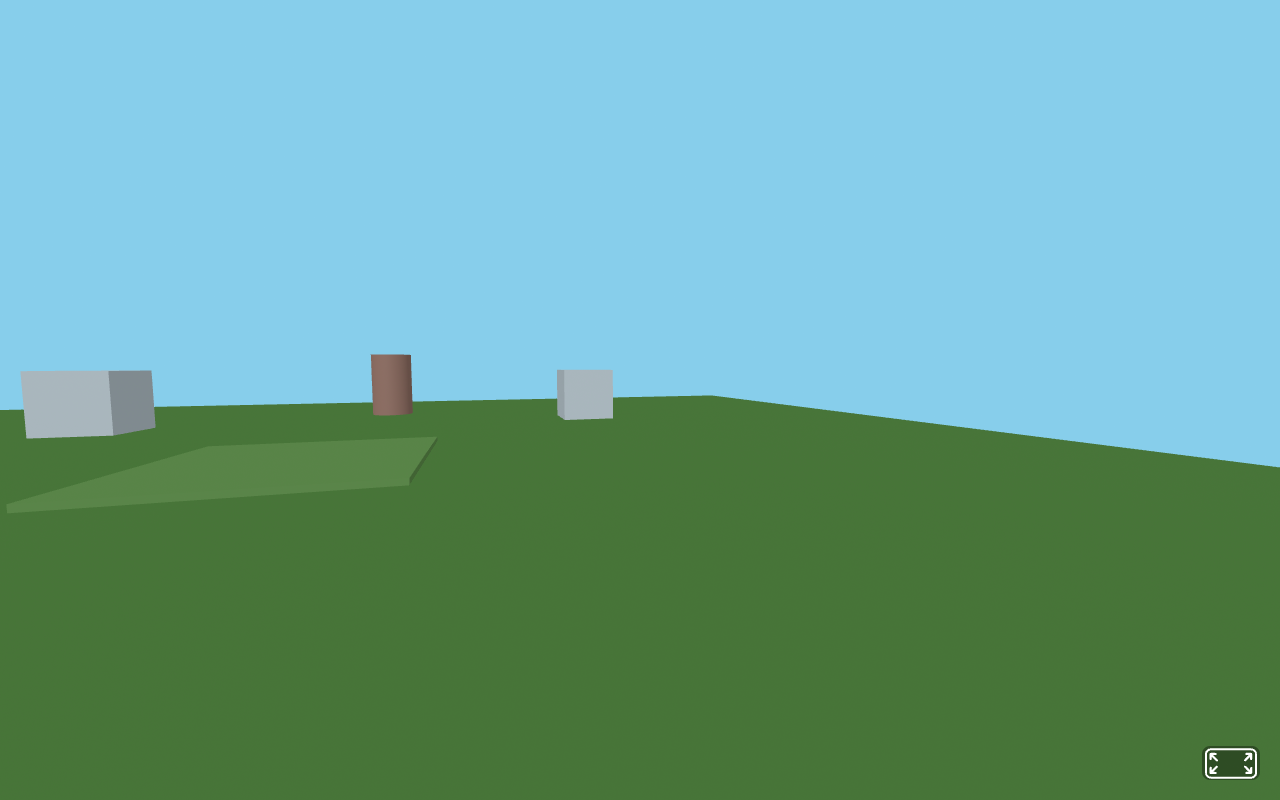
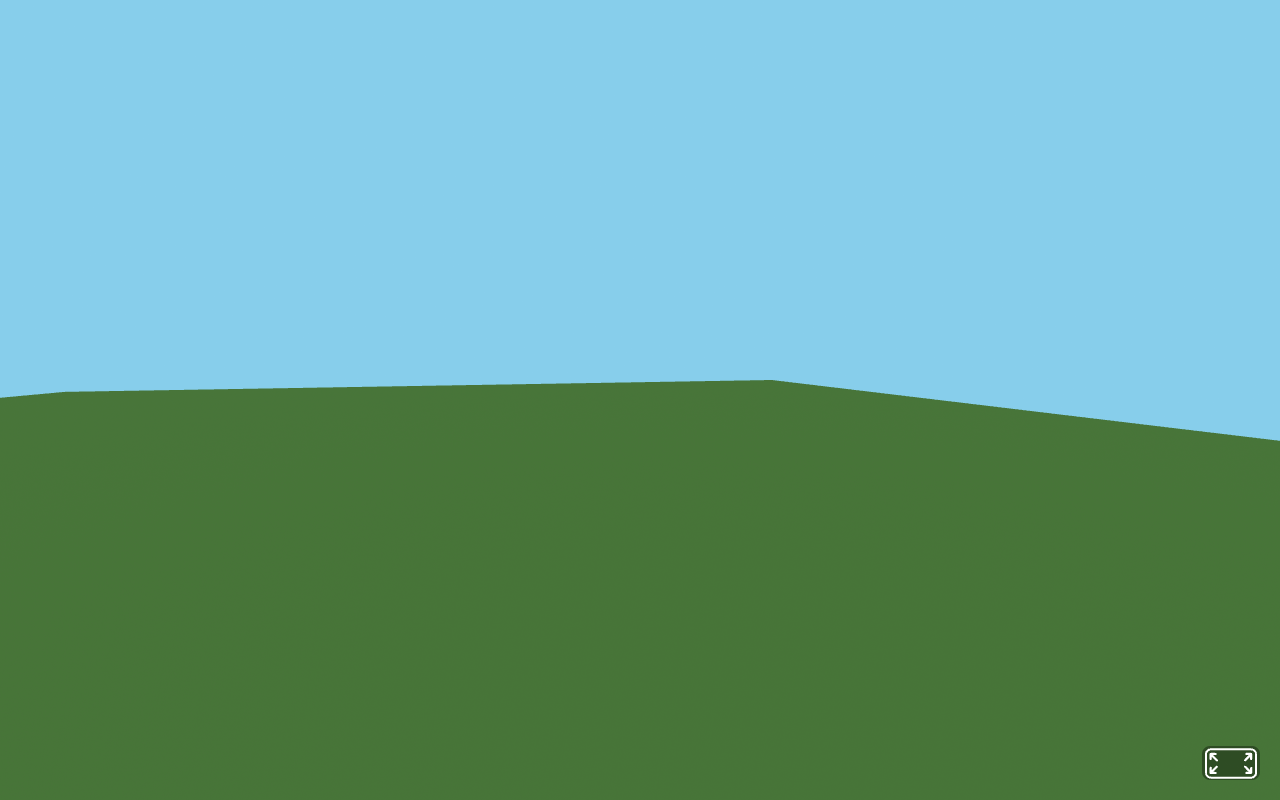
docs(md2): 第4回のマルチプレイを簡素化（アバター=スフィア1つ・床と空だけ・rotation削除）
- アバターを四角柱+スフィア → スフィア1つに
- 空間の目印(箱/円柱)を撤去し、床と空だけに
- 位置のみ送受信（rotation/向きを全面削除）でコードを簡素化
- 実機で撮り直したスフィア版キャプチャ(単一/2視点/俯瞰)に差し替え
- 発展のglTF/VRM例も簡素createAvatarに整合

Changed region(s): [[0.0, 0.4375, 1.0, 0.5938]]

diff --git a/docs/md2_week_4.html b/docs/md2_week_4.html
@@ -496,7 +496,7 @@ body { padding-top: 2.2rem; }
     <h1>MD2 第4回: マルチプレイ空間をつくる ― Node.js + Socket.IO で、みんなで動けるバーチャル空間へ</h1>
     <div style="display:flex;gap:1.5rem;align-items:center;flex-wrap:wrap;margin-top:0.3rem">
       <p style="overflow-wrap:normal;word-break:normal;flex:1 1 20rem;min-width:16rem;max-width:640px;margin:0">第3回は「与えられたデータ（サッカーCSV）」を空間で可視化した。第4回は逆に、<strong>自分たちが同じ空間に入って動き、その行動データが生まれる"装置"</strong>を作る。カギは<strong>サーバ（Node.js）</strong>と<strong>Socket.IO</strong>。ブラウザ同士をつなぎ、<strong>お互いのアバターが動いて見える</strong>マルチプレイ空間を、手を動かして完成させる。<span style="opacity:0.75">（集めたデータの"分析"は次回のテーマ。今日はまず「みんなで動ける」を実現する。）</span></p>
-      <img src="img/md2w4_hero.png" alt="Node.jsとSocket.IOで作ったマルチプレイ空間。青と橙、2人分のアバター（四角柱＋スフィア）が同じ3D空間に立っている" style="flex:0 1 460px;width:460px;max-width:100%;border-radius:12px;border:1px solid rgba(255,255,255,0.18);box-shadow:0 8px 28px rgba(0,0,0,0.45)">
+      <img src="img/md2w4_hero.png" alt="Node.jsとSocket.IOで作ったマルチプレイ空間。青と橙、2人分のアバター（色つきのスフィア）が床と空だけの空間に浮かんでいる" style="flex:0 1 460px;width:460px;max-width:100%;border-radius:12px;border:1px solid rgba(255,255,255,0.18);box-shadow:0 8px 28px rgba(0,0,0,0.45)">
     </div>
     <div style="background:rgba(255,255,255,0.08);border:1px solid rgba(255,255,255,0.2);border-radius:0.3rem;padding:0.4rem 0.8rem;margin-top:1rem;font-size:0.7rem;display:inline-block;max-width:100%;overflow-wrap:anywhere">
       <strong>第4回のメイン:</strong> ① なぜサーバが要る → ② セットアップ（Node.js/npm） → ③ 接続＋自分の空間 → ④ 同期の仕組み → ⑤ 自分の位置を送る → ⑥ 相手のアバターを同期して完成 → ⑦ 発展（名前・色・3Dモデル）
@@ -516,7 +516,7 @@ body { padding-top: 2.2rem; }
         <h4>今日の合言葉：「データを"生む装置"を作る」</h4>
         <ul class="point-list" style="margin-bottom:0">
           <li><strong>第3回</strong>＝すでにある表（サッカーCSV）を<strong>読み込んで可視化</strong>した ＝ <em>データを消費する</em></li>
-          <li><strong>第4回</strong>＝みんなが同じ空間で動くと、その<strong>位置・向きが刻々と生まれる</strong> ＝ <em>データを生産する装置を作る</em></li>
+          <li><strong>第4回</strong>＝みんなが同じ空間で動くと、その<strong>位置が刻々と生まれる</strong> ＝ <em>データを生産する装置を作る</em></li>
           <li>1人分の<strong>位置 <code>{x, y, z}</code> と向き</strong>＝ある瞬間の行動データ1件（第2回のオブジェクト＝レコードと同じ形）</li>
           <li>それを<strong>毎秒何回も送り合う</strong>＝行動の時系列データが空間の中で流れている、ということ</li>
         </ul>
@@ -566,7 +566,7 @@ body { padding-top: 2.2rem; }
         <tr><td>2</td><td>セットアップ（Node.js / npm init / npm install）</td><td>説明・手順</td></tr>
         <tr><td>3</td><td>接続確認＋自分だけの空間を歩く</td><td><span class="tag tag-standard" style="font-size:0.65rem">標準課題</span> std4-1</td></tr>
         <tr><td>4</td><td>マルチプレイの仕組み（送る→転送→受け取る）</td><td>説明</td></tr>
-        <tr><td>5</td><td>自分の位置・向きを送る（<code>emit</code>）</td><td><span class="tag tag-standard" style="font-size:0.65rem">標準課題</span> std4-2</td></tr>
+        <tr><td>5</td><td>自分の位置を送る（<code>emit</code>）</td><td><span class="tag tag-standard" style="font-size:0.65rem">標準課題</span> std4-2</td></tr>
         <tr><td>6</td><td>相手のアバターを同期して完成（<strong>標準ゴール</strong>）</td><td><span class="tag tag-standard" style="font-size:0.65rem">標準課題</span> std4-3</td></tr>
         <tr><td>7</td><td>名前ラベル・個別カラー・3Dモデル（自由創作）</td><td><span class="tag tag-advanced" style="font-size:0.65rem">発展課題</span> adv4-1</td></tr>
       </table>
@@ -862,13 +862,9 @@ io.<span class="fn">on</span>(<span class="str">'connection'</span>, (socket) <s
 <span class="kw">&lt;/head&gt;</span>
 <span class="kw">&lt;body&gt;</span>
   <span class="kw">&lt;a-scene</span> id=<span class="str">"scene"</span><span class="kw">&gt;</span>
+    <span class="cmt">&lt;!-- 空間は床と空だけ --&gt;</span>
     <span class="kw">&lt;a-plane</span> rotation=<span class="str">"-90 0 0"</span> width=<span class="str">"30"</span> height=<span class="str">"30"</span> color=<span class="str">"#4a7a3a"</span><span class="kw">&gt;&lt;/a-plane&gt;</span>
     <span class="kw">&lt;a-sky</span> color=<span class="str">"#87CEEB"</span><span class="kw">&gt;&lt;/a-sky&gt;</span>
-
-    <span class="cmt">&lt;!-- 空間の目印（好きに置いてよい） --&gt;</span>
-    <span class="kw">&lt;a-box</span> position=<span class="str">"-6 0.75 -6"</span> width=<span class="str">"1.5"</span> height=<span class="str">"1.5"</span> depth=<span class="str">"1.5"</span> color=<span class="str">"#B0BEC5"</span><span class="kw">&gt;&lt;/a-box&gt;</span>
-    <span class="kw">&lt;a-box</span> position=<span class="str">"6 0.75 -6"</span> width=<span class="str">"1.5"</span> height=<span class="str">"1.5"</span> depth=<span class="str">"1.5"</span> color=<span class="str">"#B0BEC5"</span><span class="kw">&gt;&lt;/a-box&gt;</span>
-    <span class="kw">&lt;a-cylinder</span> position=<span class="str">"0 1 -9"</span> radius=<span class="str">"0.6"</span> height=<span class="str">"2"</span> color=<span class="str">"#8D6E63"</span><span class="kw">&gt;&lt;/a-cylinder&gt;</span>
 
     <span class="cmt">&lt;!-- 自分＝カメラ。WASDキーと矢印で動ける --&gt;</span>
     <span class="kw">&lt;a-camera</span> id=<span class="str">"cam"</span> position=<span class="str">"0 1.6 4"</span><span class="kw">&gt;&lt;/a-camera&gt;</span>
@@ -894,7 +890,7 @@ node server.js</pre>
       <div class="exec-pair">
         <figure class="exec-shot">
           <div class="exec-bar"><span class="d r"></span><span class="d y"></span><span class="d g"></span><span class="u">http://localhost:3000</span></div>
-          <img src="img/md2w4_single.png" alt="ブラウザで開いた3D空間。緑の地面・水色の空・目印の白い箱と茶色の円柱が見える。自分はカメラなので画面には映らない">
+          <img src="img/md2w4_single.png" alt="ブラウザで開いた3D空間。緑の地面と水色の空だけのシンプルな空間。自分はカメラなので画面には映らない">
           <figcaption class="exec-cap"><strong>ブラウザ:</strong> 自分の空間を歩ける（自分はカメラなので画面には映らない）。</figcaption>
         </figure>
         <figure class="exec-shot">
@@ -929,7 +925,7 @@ node server.js</pre>
       <p style="margin-bottom:0.6rem">お互いのアバターが見えるまでの流れは、次の3ステップだけ。std4-2 で①、std4-3 で②③を作る。</p>
       <table>
         <tr><th style="width:8%">#</th><th style="width:28%">どこで</th><th>すること</th></tr>
-        <tr><td>①</td><td>自分のブラウザ</td><td><code>setInterval</code> で <strong>100ミリ秒ごと</strong>に、自分の位置・向きを <code>socket.emit('move', …)</code> で送る</td></tr>
+        <tr><td>①</td><td>自分のブラウザ</td><td><code>setInterval</code> で <strong>100ミリ秒ごと</strong>に、自分の位置を <code>socket.emit('move', …)</code> で送る</td></tr>
         <tr><td>②</td><td>サーバ</td><td><code>socket.on('move')</code> で受け取り、<code>socket.broadcast.emit('moved', …)</code> で<strong>自分以外の全員</strong>へ転送する</td></tr>
         <tr><td>③</td><td>相手のブラウザ</td><td><code>socket.on('moved')</code> で受け取り、送り主のアバターを<strong>作る／位置を更新する</strong></td></tr>
       </table>
@@ -994,22 +990,20 @@ node server.js</pre>
   <div class="container">
     <div class="section-header">
       <div class="section-num" style="background:#4FC3F7">5</div>
-      <h2>自分の位置・向きを「送る」</h2>
+      <h2>自分の位置を「送る」</h2>
     </div>
 
     <div id="std4-2" class="card standard">
-      <div class="card-header"><h3><span class="tag tag-standard" style="font-size:0.7rem">標準課題</span> std4-2：位置・向きを emit で送る（①）</h3></div>
+      <div class="card-header"><h3><span class="tag tag-standard" style="font-size:0.7rem">標準課題</span> std4-2：位置を emit で送る（①）</h3></div>
       <p style="margin-bottom:0.5rem">std4-1 の2ファイルに<strong>追記</strong>する。まず <code>index.html</code> の <code>&lt;script&gt;</code> に「100msごとに送る」処理を、次に <code>server.js</code> に「受けて転送する」処理を足す。<span class="blk">①</span>〜<span class="blk">④</span>を埋める。</p>
 
       <p style="font-weight:700;color:#4FC3F7;font-size:0.95rem;margin:1rem 0 0.3rem">追記1: <code>public/index.html</code> の <code>&lt;script&gt;</code> の中（<code>console.log</code> の下）</p>
-      <pre><span class="code-label">JavaScript ── index.html に追記</span><span class="cmt">// 100ミリ秒ごとに、自分の位置と向きをサーバへ送る</span>
+      <pre><span class="code-label">JavaScript ── index.html に追記</span><span class="cmt">// 100ミリ秒ごとに、自分の位置をサーバへ送る</span>
 <span class="fn">setInterval</span>(() <span class="op">=&gt;</span> {
-  <span class="kw">const</span> pos = cam.object3D.position;                          <span class="cmt">// 自分の位置</span>
-  <span class="kw">const</span> rotY = THREE.MathUtils.<span class="fn">radToDeg</span>(cam.object3D.rotation.y); <span class="cmt">// 向き（左右）</span>
+  <span class="kw">const</span> pos = cam.object3D.position;   <span class="cmt">// 自分の位置</span>
 
   socket.<span class="blk">①</span>(<span class="str">'move'</span>, {
-    position: { x: pos.x, y: <span class="num">0</span>, z: pos.z },
-    rotation: { x: <span class="num">0</span>, y: rotY, z: <span class="num">0</span> },
+    position: { x: pos.x, y: pos.y, z: pos.z },
     color: myColor
   });
 }, <span class="num">100</span>);</pre>
@@ -1046,7 +1040,6 @@ socket.<span class="fn">on</span>(<span class="str">'move'</span>, (data) <span 
   socket.<span class="blk">②</span>.<span class="fn">emit</span>(<span class="str">'moved'</span>, {
     id: socket.<span class="blk">③</span>,          <span class="cmt">// 送り主を見分けるための番号</span>
     position: data.position,
-    rotation: data.rotation,
     color: data.<span class="blk">④</span>
   });
 });</pre>
@@ -1077,15 +1070,14 @@ socket.<span class="fn">on</span>(<span class="str">'move'</span>, (data) <span 
 
     <div id="std4-3" class="card standard">
       <div class="card-header"><h3><span class="tag tag-standard" style="font-size:0.7rem">標準課題</span> std4-3：受け取ってアバターを作る（②③）</h3></div>
-      <p style="margin-bottom:0.5rem">最後に <code>index.html</code> の <code>&lt;script&gt;</code> に、<strong>受け取る処理</strong>を足す。届いた <code>moved</code> の位置に、相手のアバター（四角柱の胴体＋スフィアの頭）を作る／動かす。<span class="blk">①</span>〜<span class="blk">④</span>を埋めれば完成。</p>
+      <p style="margin-bottom:0.5rem">最後に <code>index.html</code> の <code>&lt;script&gt;</code> に、<strong>受け取る処理</strong>を足す。届いた <code>moved</code> の位置に、相手のアバター（<strong>スフィア1つ</strong>）を作る／動かす。<span class="blk">①</span>〜<span class="blk">④</span>を埋めれば完成。</p>
 
-      <pre><span class="code-label">JavaScript ── index.html に追記（setInterval の下）</span><span class="cmt">// 他ユーザのアバターを作る（四角柱の胴体＋スフィアの頭）</span>
+      <pre><span class="code-label">JavaScript ── index.html に追記（setInterval の下）</span><span class="cmt">// 他ユーザのアバター（スフィア1つ）を作る</span>
 <span class="kw">function</span> <span class="fn">createAvatar</span>(id, color) {
-  <span class="kw">const</span> avatar = document.<span class="fn">createElement</span>(<span class="str">'a-entity'</span>);
+  <span class="kw">const</span> avatar = document.<span class="fn">createElement</span>(<span class="str">'a-sphere'</span>);
   avatar.<span class="fn">setAttribute</span>(<span class="str">'id'</span>, id);
-  avatar.innerHTML =
-    <span class="str">'&lt;a-box height="1.2" width="0.6" depth="0.6" color="'</span> + color + <span class="str">'" position="0 0.6 0"&gt;&lt;/a-box&gt;'</span> +
-    <span class="str">'&lt;a-sphere radius="0.35" color="'</span> + color + <span class="str">'" position="0 1.5 0"&gt;&lt;/a-sphere&gt;'</span>;
+  avatar.<span class="fn">setAttribute</span>(<span class="str">'radius'</span>, <span class="str">'0.5'</span>);
+  avatar.<span class="fn">setAttribute</span>(<span class="str">'color'</span>, color);
   scene.<span class="blk">①</span>(avatar);        <span class="cmt">// シーンに追加する</span>
   <span class="kw">return</span> avatar;
 }
@@ -1097,7 +1089,6 @@ socket.<span class="fn">on</span>(<span class="str">'moved'</span>, (data) <span
     avatar = <span class="fn">createAvatar</span>(data.id, data.color);   <span class="cmt">// 初めて見るIDなら作る</span>
   }
   avatar.<span class="fn">setAttribute</span>(<span class="str">'</span><span class="blk">②</span><span class="str">'</span>, data.position);            <span class="cmt">// 位置を更新</span>
-  avatar.<span class="fn">setAttribute</span>(<span class="str">'rotation'</span>, <span class="str">'0 '</span> + data.rotation.y + <span class="str">' 0'</span>); <span class="cmt">// 向きを更新</span>
 });
 
 <span class="cmt">// 他ユーザが退出したら、そのアバターを消す</span>
@@ -1119,18 +1110,18 @@ socket.<span class="fn">on</span>(<span class="str">'disconnect'</span>, () <spa
       <div class="exec-pair">
         <figure class="exec-shot">
           <div class="exec-bar"><span class="d r"></span><span class="d y"></span><span class="d g"></span><span class="u">① 1人目の画面</span></div>
-          <img src="img/md2w4_view1.png" alt="1人目の視点。前方に橙色の相手アバター（四角柱＋スフィア）が同期して表示されている">
-          <figcaption class="exec-cap"><strong>1人目の視点:</strong> 前方に<strong>相手（橙）</strong>が見える。</figcaption>
+          <img src="img/md2w4_view1.png" alt="1人目の視点。前方に相手のスフィアが同期して表示されている">
+          <figcaption class="exec-cap"><strong>1人目の視点:</strong> 前方に<strong>相手のスフィア</strong>が見える。</figcaption>
         </figure>
         <figure class="exec-shot">
           <div class="exec-bar"><span class="d r"></span><span class="d y"></span><span class="d g"></span><span class="u">② 2人目の画面</span></div>
-          <img src="img/md2w4_view2.png" alt="2人目の視点。前方に別の色の相手アバターが同期して表示されている">
-          <figcaption class="exec-cap"><strong>2人目の視点:</strong> 同じ空間で<strong>相手</strong>が見える。視点は違っても状態は一致。</figcaption>
+          <img src="img/md2w4_view2.png" alt="2人目の視点。前方に相手のスフィアが同期して表示されている">
+          <figcaption class="exec-cap"><strong>2人目の視点:</strong> 同じ空間で<strong>相手のスフィア</strong>が見える。視点は違っても状態は一致。</figcaption>
         </figure>
       </div>
       <figure class="exec-shot" style="margin-top:1rem">
         <div class="exec-bar"><span class="d r"></span><span class="d y"></span><span class="d g"></span><span class="u">俯瞰（2人が同じ空間にいる）</span></div>
-        <img src="img/md2w4_hero.png" alt="2人分のアバター（青と橙）が同じ3D空間に立っている俯瞰ショット" style="max-width:720px">
+        <img src="img/md2w4_hero.png" alt="2人分のアバター（青と橙のスフィア）が床と空だけの空間に浮かんでいる俯瞰ショット" style="max-width:720px">
         <figcaption class="exec-cap"><strong>標準ゴール達成:</strong> 2人（青・橙）が同じ空間にいる。片方が動けば、もう片方の画面でもリアルタイムに動く。</figcaption>
       </figure>
 
@@ -1193,16 +1184,27 @@ avatar.<span class="fn">appendChild</span>(label);</pre>
       <p style="font-size:0.9rem;margin-bottom:0">胴体 <code>a-box</code> の <code>height</code>／<code>width</code> や、頭 <code>a-sphere</code> の <code>radius</code> を変える。帽子（小さな <code>a-cone</code>）を足すのもよい。</p>
 
       <h4 style="color:#4FC3F7;font-size:0.95rem;margin:1rem 0 0.3rem">アイデア③：Sketchfab の3Dモデル（glTF/glb）をアバターにする</h4>
-      <p style="font-size:0.9rem;margin-bottom:0">第3回で学んだ <code>&lt;a-gltf-model&gt;</code> を使い、四角柱＋スフィアの代わりに<strong>好きな3Dモデル</strong>をアバターにする。<a href="https://sketchfab.com/" style="color:#4FC3F7">Sketchfab</a> でロボット・動物・キャラクターなどの <code>glb</code> をダウンロードして <code>public</code> に置き、<code>createAvatar</code> の <code>innerHTML</code> を差しかえる。<span style="color:#999">（ライセンス・作者表示に注意）</span></p>
-      <pre><span class="code-label">JavaScript ── createAvatar の innerHTML を差しかえ</span>avatar.innerHTML =
-  <span class="str">'&lt;a-gltf-model src="robot.glb" scale="1 1 1"&gt;&lt;/a-gltf-model&gt;'</span>;</pre>
+      <p style="font-size:0.9rem;margin-bottom:0">第3回で学んだ <code>&lt;a-gltf-model&gt;</code> を使い、スフィアの代わりに<strong>好きな3Dモデル</strong>をアバターにする。<a href="https://sketchfab.com/" style="color:#4FC3F7">Sketchfab</a> でロボット・動物・キャラクターなどの <code>glb</code> をダウンロードして <code>public</code> に置き、<code>createAvatar</code> を「スフィアの代わりにモデルを作る」ように変える。<span style="color:#999">（ライセンス・作者表示に注意）</span></p>
+      <pre><span class="code-label">JavaScript ── createAvatar を差しかえ</span><span class="kw">function</span> <span class="fn">createAvatar</span>(id, color) {
+  <span class="kw">const</span> avatar = document.<span class="fn">createElement</span>(<span class="str">'a-entity'</span>);
+  avatar.<span class="fn">setAttribute</span>(<span class="str">'id'</span>, id);
+  avatar.<span class="fn">setAttribute</span>(<span class="str">'gltf-model'</span>, <span class="str">'robot.glb'</span>);   <span class="cmt">// スフィアの代わりにモデル</span>
+  scene.<span class="fn">appendChild</span>(avatar);
+  <span class="kw">return</span> avatar;
+}</pre>
 
       <h4 style="color:#4FC3F7;font-size:0.95rem;margin:1rem 0 0.3rem">アイデア④：VRM（3Dキャラクター）をアバターにする</h4>
       <p style="font-size:0.9rem;margin-bottom:0.4rem"><strong>VRM</strong> は「人型3Dアバター」の標準フォーマット。<a href="https://hub.vroid.com/" style="color:#4FC3F7">VRoid Hub</a> や、無料アプリ <strong>VRoid Studio</strong> で作った自分のキャラを <code>.vrm</code> で置ける。A-Frame では <a href="https://github.com/binzume/aframe-vrm" style="color:#4FC3F7">aframe-vrm コンポーネント</a>を読み込むと <code>vrm</code> 属性で表示できる。</p>
       <pre><span class="code-label">HTML ── &lt;head&gt; に1行足す（VRMを使うとき）</span><span class="kw">&lt;script</span> src=<span class="str">"https://cdn.jsdelivr.net/npm/@binzume/aframe-vrm/dist/aframe-vrm.min.js"</span><span class="kw">&gt;&lt;/script&gt;</span></pre>
-      <pre><span class="code-label">JavaScript ── createAvatar の innerHTML を差しかえ</span>avatar.innerHTML =
-  <span class="str">'&lt;a-entity vrm="src:avatar.vrm" rotation="0 180 0"&gt;&lt;/a-entity&gt;'</span>;</pre>
-      <p style="font-size:0.85rem;color:#999;margin-bottom:0">※ <code>.vrm</code> ファイルは <code>public</code> に置く。向きが逆なら <code>rotation="0 180 0"</code> で調整する。</p>
+      <pre><span class="code-label">JavaScript ── createAvatar を差しかえ</span><span class="kw">function</span> <span class="fn">createAvatar</span>(id, color) {
+  <span class="kw">const</span> avatar = document.<span class="fn">createElement</span>(<span class="str">'a-entity'</span>);
+  avatar.<span class="fn">setAttribute</span>(<span class="str">'id'</span>, id);
+  avatar.<span class="fn">setAttribute</span>(<span class="str">'vrm'</span>, <span class="str">'src:avatar.vrm'</span>);   <span class="cmt">// VRMを表示</span>
+  avatar.<span class="fn">setAttribute</span>(<span class="str">'rotation'</span>, <span class="str">'0 180 0'</span>);
+  scene.<span class="fn">appendChild</span>(avatar);
+  <span class="kw">return</span> avatar;
+}</pre>
+      <p style="font-size:0.85rem;color:#999;margin-bottom:0">※ <code>.vrm</code> ファイルは <code>public</code> に置く。向きが逆なら <code>rotation</code> の値を変える。</p>
 
       <div style="background:#0a1e2e;border:1px solid #24506b;border-left:4px solid #4FC3F7;border-radius:10px;padding:0.7rem 1rem;margin:1.2rem 0 0.8rem;font-weight:700;color:#4FC3F7;font-size:0.95rem">B. 空間そのものを作り込む</div>
 
